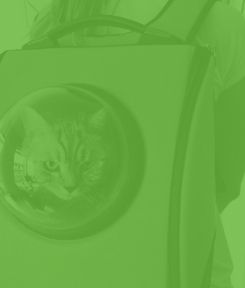
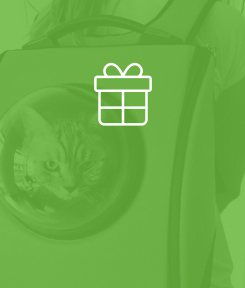
Сделал адаптацию и промо в каталоге

Changed region(s): [[0.3714, 0.2188, 0.6286, 0.4375]]

diff --git a/source/catalog.html b/source/catalog.html
@@ -36,9 +36,9 @@
     </svg>
     <button class="button-menu button-menu--close"></button>
     <nav class="page-header__nav">
-      <a class="button-nav button-nav--hero-index" href="#">Главная</a>
-      <a class="button-nav button-nav--hero-index" href="catalog.html">Каталог продукции</a>
-      <a class="button-nav button-nav--hero-index" href="form.html">Подбор программ</a>
+      <a class="button-nav button-nav--hero" href="#">Главная</a>
+      <a class="button-nav button-nav--hero" href="catalog.html">Каталог продукции</a>
+      <a class="button-nav button-nav--hero" href="form.html">Подбор программ</a>
     </nav>
   </header>
   <main>
@@ -46,7 +46,7 @@
       <h1 class="section__title">Каталог продукции</h1>
       <h2 class="visually-hidden">Основные продукты.</h2>
       <ul class="section-products__list products-list">
-        <li class="products-card">
+        <li class="products-card products-card">
           <figure class="products-card__info">
             <figcaption class="products-card__text">
               <h3 class="products-card__title">Cat Energy<br>PRO 500 г</h3>
@@ -65,76 +65,11 @@
                 </div>
               </dl>
             </figcaption>
-            <img class="products-card__picture" width="140" height="112" src="img/catalog/catalog-1.jpg" alt="Фото нашего продукта.">
-          </figure>
-          <a class="button-link" href="form.html">Заказать</a>
-        </li>
-        <li class="products-card">
-          <figure class="products-card__info">
-            <figcaption class="products-card__text">
-              <h3 class="products-card__title">Cat Energy<br>PRO 500 г</h3>
-              <dl class="products-card__disc">
-                <div class="products-card__disc-item">
-                  <dt>Масса</dt>
-                  <dd>500 г.</dd>
-                </div>
-                <div class="products-card__disc-item">
-                  <dt>Вкус</dt>
-                  <dd>Курица</dd>
-                </div>
-                <div class="products-card__disc-item">
-                  <dt>Цена</dt>
-                  <dd>700 ₽</dd>
-                </div>
-              </dl>
-            </figcaption>
-            <img class="products-card__picture" width="140" height="112" src="img/catalog/catalog-1.jpg" alt="Фото нашего продукта.">
-          </figure>
-          <a class="button-link" href="form.html">Заказать</a>
-        </li>
-        <li class="products-card">
-          <figure class="products-card__info">
-            <figcaption class="products-card__text">
-              <h3 class="products-card__title">Cat Energy<br>PRO 500 г</h3>
-              <dl class="products-card__disc">
-                <div class="products-card__disc-item">
-                  <dt>Масса</dt>
-                  <dd>500 г.</dd>
-                </div>
-                <div class="products-card__disc-item">
-                  <dt>Вкус</dt>
-                  <dd>Курица</dd>
-                </div>
-                <div class="products-card__disc-item">
-                  <dt>Цена</dt>
-                  <dd>700 ₽</dd>
-                </div>
-              </dl>
-            </figcaption>
-            <img class="products-card__picture" width="140" height="112" src="img/catalog/catalog-1.jpg" alt="Фото нашего продукта.">
-          </figure>
-          <a class="button-link" href="form.html">Заказать</a>
-        </li>
-        <li class="products-card">
-          <figure class="products-card__info">
-            <figcaption class="products-card__text">
-              <h3 class="products-card__title">Cat Energy<br>PRO 500 г</h3>
-              <dl class="products-card__disc">
-                <div class="products-card__disc-item">
-                  <dt>Масса</dt>
-                  <dd>500 г.</dd>
-                </div>
-                <div class="products-card__disc-item">
-                  <dt>Вкус</dt>
-                  <dd>Курица</dd>
-                </div>
-                <div class="products-card__disc-item">
-                  <dt>Цена</dt>
-                  <dd>700 ₽</dd>
-                </div>
-              </dl>
-            </figcaption>
-            <img class="products-card__picture" width="140" height="112" src="img/catalog/catalog-1.jpg" alt="Фото нашего продукта.">
+            <picture>
+              <source media="(min-width: 1440px)" width="169" height="210" srcset="img/catalog/desktop-01.png 1x, img/catalog/desktop-01@2x.png 2x">
+              <source media="(min-width: 768px)" width="200" height="210" srcset="img/catalog/tablet-01.png 1x, img/catalog/desktop-01@2x.png 2x">
+              <img class="products-card__picture" src="img/catalog/mobile-01.png" srcset="img/catalog/mobile-01@2x.png 2x" width="140" height="112" alt="Фото нашего продукта.">
+            </picture>
           </figure>
           <a class="button-link" href="form.html">Заказать</a>
         </li>
@@ -157,30 +92,11 @@
                 </div>
               </dl>
             </figcaption>
-            <img class="products-card__picture" width="140" height="112" src="img/catalog/catalog-1.jpg" alt="Фото нашего продукта.">
-          </figure>
-          <a class="button-link" href="form.html">Заказать</a>
-        </li>
-        <li class="products-card products-card">
-          <figure class="products-card__info">
-            <figcaption class="products-card__text">
-              <h3 class="products-card__title">Cat Energy<br>PRO 500 г</h3>
-              <dl class="products-card__disc">
-                <div class="products-card__disc-item">
-                  <dt>Масса</dt>
-                  <dd>500 г.</dd>
-                </div>
-                <div class="products-card__disc-item">
-                  <dt>Вкус</dt>
-                  <dd>Курица</dd>
-                </div>
-                <div class="products-card__disc-item">
-                  <dt>Цена</dt>
-                  <dd>700 ₽</dd>
-                </div>
-              </dl>
-            </figcaption>
-            <img class="products-card__picture" width="140" height="112" src="img/catalog/catalog-1.jpg" alt="Фото нашего продукта.">
+            <picture>
+              <source media="(min-width: 1440px)" width="169" height="210" srcset="img/catalog/desktop-02.png 1x, img/catalog/desktop-02@x.png 2x">
+              <source media="(min-width: 768px)" width="200" height="210" srcset="img/catalog/tablet-02.png 1x, img/catalog/tablet-02@2x.png 2x">
+              <img class="products-card__picture" src="img/catalog/mobile-02.png" srcset="img/catalog/mobile-02.png 2x" width="140" height="112" alt="Фото нашего продукта.">
+            </picture>
           </figure>
           <a class="button-link" href="form.html">Заказать</a>
         </li>

diff --git a/source/less/blocks/additional-products-card.less b/source/less/blocks/additional-products-card.less
@@ -5,12 +5,20 @@
     padding: 13px 0 19px;
   }
 
-  @media (min-width: 768px) {
+  @media (min-width: 768px) and (max-width: 1439px) {
     display: flex;
     flex-wrap: wrap;
     justify-content: space-between;
     align-items: start;
     padding: 26px 38px 28px;
+  }
+
+  @media (min-width: 1440px) {
+    display: flex;
+    flex-wrap: wrap;
+    justify-content: space-between;
+    align-items: start;
+    padding: 15px 0 15px;
   }
 }
 
@@ -18,6 +26,8 @@
   font-size: @f-size;
   line-height: @f-size + 4px;
   text-transform: @t-transform;
+
+  word-wrap: break-word;
 }
 
 .additional-products-card__title {
@@ -29,8 +39,15 @@
     .font-text(16px, uppercase);
   }
 
-  @media (min-width: 768px) {
+  @media (min-width: 768px) and (max-width: 1439px) {
     min-width: 300px;
+    padding-top: 3px;
+    .font-text(20px, uppercase);
+  }
+
+  @media (min-width: 1440px) {
+    min-width: 170px;
+    margin: 0;
     padding-top: 3px;
     .font-text(20px, uppercase);
   }
@@ -43,7 +60,7 @@
   justify-content: space-between;
   .font-text(14px, unset);
 
-  @media (min-width: 768px) {
+  @media (min-width: 768px) and (max-width: 1439px) {
     .font-text(16px, unset);
     min-width: 300px;
     text-align: right;
@@ -51,19 +68,28 @@
     margin: 0;
     margin-bottom: 25px;
   }
-}
 
-.additional-products__price {
-  @media (min-width: 768px) {
+  @media (min-width: 1440px) {
+    .font-text(16px, unset);
+    width: 285px;
+    padding-top: 8px;
     margin: 0;
-    width: 70px;
   }
 }
 
 .additional-products__weight {
   @media (min-width: 768px) {
-    margin-right: 21px;
-    margin-left: auto;
+    margin-right: 10px;
+  }
+}
+
+.additional-products__price {
+  text-align: right;
+  flex-shrink: 1;
+
+  @media (min-width: 768px) {
+    margin: 0;
+    width: 42px;
   }
 }
 

diff --git a/source/less/blocks/section-additional-products.less b/source/less/blocks/section-additional-products.less
@@ -6,14 +6,58 @@
   @media (min-width: 1440px) {
     display: flex;
     flex-wrap: wrap;
+    align-items: stretch;
     justify-content: space-between;
   }
 }
 
 .section-additional-products__promo {
+  .promo-style(
+    @width,
+    @padding,
+    @text-align: center,
+    @f-family: Lato,
+    @f-size: 16px,
+    @l-height: 20px,
+    @color: #ffffff) {
+
+    width: @width;
+    padding: @padding;
+    text-align: @text-align;
+    font-family: @f-family;
+    font-size: @f-size;
+    line-height: @l-height;
+    color: @color;
+
+    margin: 0 auto;
+    box-sizing: border-box;
+    word-wrap: break-word;
+  }
+
+  @media (max-width: 767px) {
+    .promo-style(280px, 185px 60px 40px);
+    background: url("../img/promo-background-mobile.jpg") no-repeat;
+  }
+
+  @media (max-width: 767px) and (min-resolution: 2dppx) {
+    background: url("../img/promo-background-mobile@2x.jpg") no-repeat;
+  }
+
+  @media (min-width: 768px) and (max-width: 1439px) {
+    .promo-style(707px, 70px 125px 70px 420px, left);
+    background: url("../img/promo-background-tablet.jpg") no-repeat;
+  }
+
+  @media (min-width: 768px) and (max-width: 1439px) and (min-resolution: 2dppx) {
+    background: url("../img/promo-background-tablet@2x.jpg") no-repeat;
+  }
+
   @media (min-width: 1440px) {
-    width: 245px;
-    min-height: 288px;
+    .promo-style(245px, 185px 40px 40px);
     background: url("../img/promo-background-desktop.jpg") no-repeat;
+  }
+
+  @media (min-width: 1440px) and (max-width: 1439px) and (min-resolution: 2dppx) {
+    background: url("../img/promo-background-desktop@2x.jpg") no-repeat;
   }
 }

diff --git a/source/form.html b/source/form.html
@@ -36,9 +36,9 @@
     </svg>
     <button class="button-menu button-menu--close"></button>
     <nav class="page-header__nav">
-      <a class="button-nav button-nav--hero-index" href="#">Главная</a>
-      <a class="button-nav button-nav--hero-index" href="catalog.html">Каталог продукции</a>
-      <a class="button-nav button-nav--hero-index" href="form.html">Подбор программ</a>
+      <a class="button-nav button-nav--hero" href="#">Главная</a>
+      <a class="button-nav button-nav--hero" href="catalog.html">Каталог продукции</a>
+      <a class="button-nav button-nav--hero" href="form.html">Подбор программ</a>
     </nav>
   </header>
   <main class="page__main">

diff --git a/source/less/blocks/products-card.less b/source/less/blocks/products-card.less
@@ -18,6 +18,7 @@
   @media (min-width: 768px) and (max-width: 1439px) {
     width: 324px;
     padding: 0px 37px 40px;
+    background: linear-gradient(to top, #f2f2f2 0, #f2f2f2 75%, transparent 75%, transparent 100%);
   }
 
   @media (min-width: 1440px) {
@@ -38,8 +39,6 @@
 }
 
 .products-card__picture {
-  order: -1;
-
   @media (max-width: 767px) {
     margin: auto;
     margin-right: 0;
@@ -51,9 +50,9 @@
     margin-right: auto;
     min-width: 140px;
   }
-
+  order: 2;
   margin: auto;
-
+  text-align: center;
 }
 
 .font-text(@f-size, @t-transform) {

diff --git a/source/less/blocks/section-text.less b/source/less/blocks/section-text.less
@@ -15,15 +15,8 @@
     letter-spacing: 0.03em;
     word-spacing: 0.11em;
 
-    @media (min-width: 768px) and (max-width: 1439px) {
-      padding-top: 24px;
-      padding-bottom: 52px;
-    }
-
-    @media (min-width: 1440px) {
-      width: 436px;
-      padding-top: 20px;
-      padding-bottom: 49px;
+    @media (min-width: 768px) {
+      width: 157px;
     }
   }
 

diff --git a/source/less/blocks/section-address.less b/source/less/blocks/section-address.less
@@ -9,7 +9,12 @@
   justify-content: space-between;
   min-width: 280px;
   margin: auto;
-  padding: 24px 20px 26px;
+
+  @media (max-width: 767px) {
+    width: 280px;
+    padding: 24px 0 26px;
+    justify-content: center;
+  }
 
   @media (min-width: 768px) {
     padding: 70px 61px;

diff --git a/source/less/blocks/additional-products-list.less b/source/less/blocks/additional-products-list.less
@@ -1,4 +1,5 @@
 .additional-products-list {
+  box-sizing: content-box;
   padding: 0;
   border-top: 1px solid #cdcdcd;
 
@@ -14,5 +15,7 @@
 
   @media (min-width: 1440px) {
     width: 895px;
+    border-right: 1px solid transparent;
+    border-left: 1px solid transparent;
   }
 }

diff --git a/source/less/blocks/products-list.less b/source/less/blocks/products-list.less
@@ -1,6 +1,7 @@
 .products-list {
   display: flex;
   flex-wrap: wrap;
+  justify-content: start;
   padding: 0;
   list-style: none;
 
